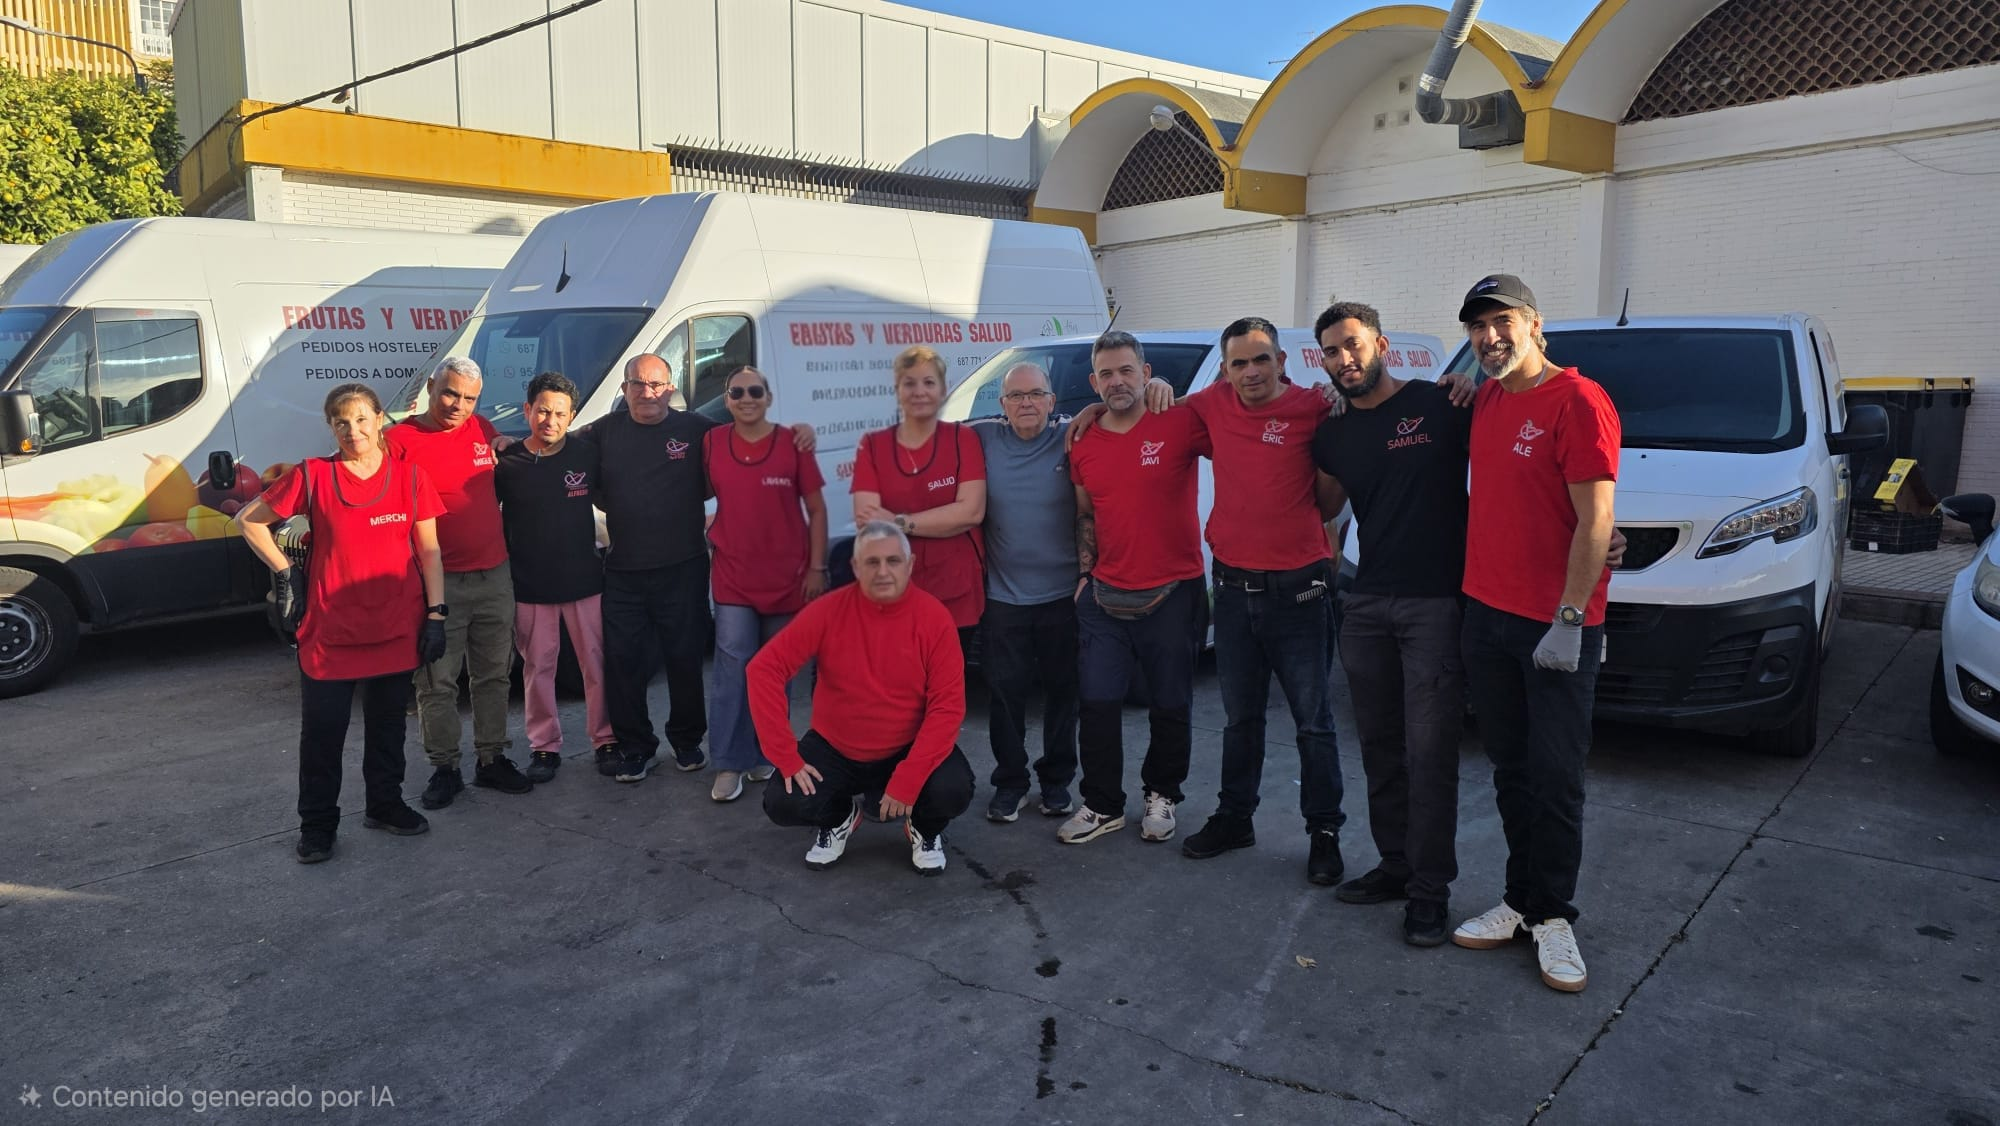
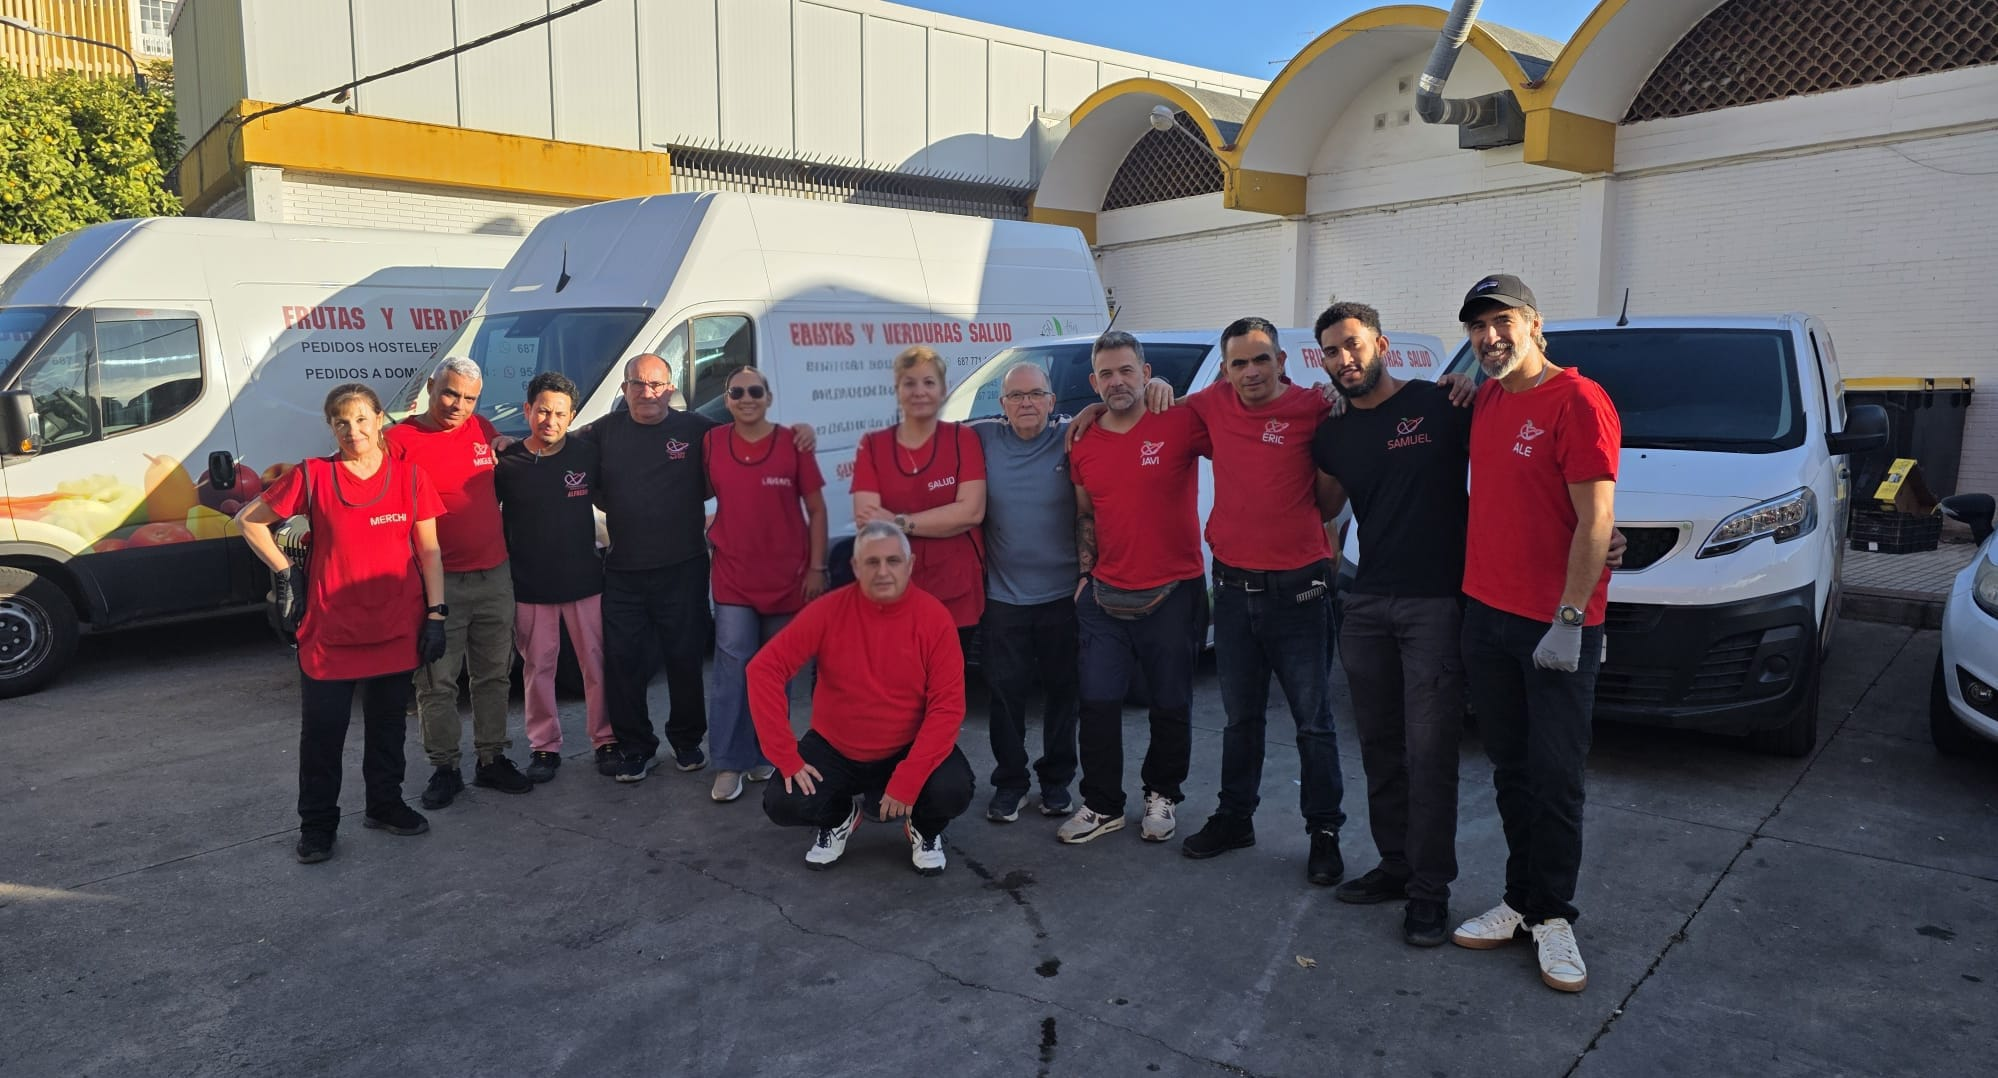
fix: improve image quality and update business details

diff --git a/src/data/negocio.ts b/src/data/negocio.ts
@@ -16,7 +16,7 @@ export const negocio = {
     codigo: '47.21',
     descripcion: 'Comercio al por menor de frutas y hortalizas en establecimientos especializados',
   },
-  claim: 'Fruta y verdura fresca en Sevilla',
+  claim: 'Tu frutería en Sevilla',
   descripcion:
     'Frutería local familiar en el Mercado de Abastos Tiro de Línea, con fruta, verdura y producto fresco de temporada.',
   idioma: 'es-ES',
@@ -24,7 +24,7 @@ export const negocio = {
   logo: '/logo/logo-principal.png',
   imagenSocial: '/logo/logo-fondo-blanco.png',
   facebook: 'https://www.facebook.com/FruteriaSaludCom?locale=es_ES',
-  instagram: 'https://www.instagram.com/fruteriasalud?igsh=MW5ka3M3Mnl5eDhqdQ==',
+  instagram: 'https://www.instagram.com/fruteriasalud',
   googleMaps: 'https://maps.app.goo.gl/MUbiuF8D8oKDHpGs9',
   direccion: {
     texto:
@@ -57,7 +57,7 @@ export const negocio = {
     email: 'fruteriasaludsl@gmail.com',
   },
   horario: {
-    texto: 'Horario habitual de mercado. Te recomendamos llamar antes de tu visita para confirmarlo.',
+    texto: 'De 7:00 a 15:00 h.',
     openingHoursSpecification: [],
   },
   sobreNosotros: {

diff --git a/src/data/galeria.ts b/src/data/galeria.ts
@@ -47,8 +47,8 @@ export const galeria = [
     titulo: 'Preparación de encargos',
     caption: 'Preparamos cada encargo con atención antes de la recogida o de una entrega a consultar.',
     categoria: 'puesto',
-    aspect: 'aspect-[3/4]',
-    objectPosition: 'center 20%',
+    aspect: 'aspect-[4/3]',
+    objectPosition: '30% center',
   },
   {
     id: 'reparto-vehiculo-1',
@@ -57,8 +57,8 @@ export const galeria = [
     titulo: 'Entregas a consultar',
     caption: 'La entrega de pedidos se valora caso por caso y está sujeta a disponibilidad.',
     categoria: 'logistica',
-    aspect: 'aspect-[3/4]',
-    objectPosition: 'top',
+    aspect: 'aspect-[16/9]',
+    objectPosition: 'center',
   },
   {
     id: 'reparto-vehiculo-2',
